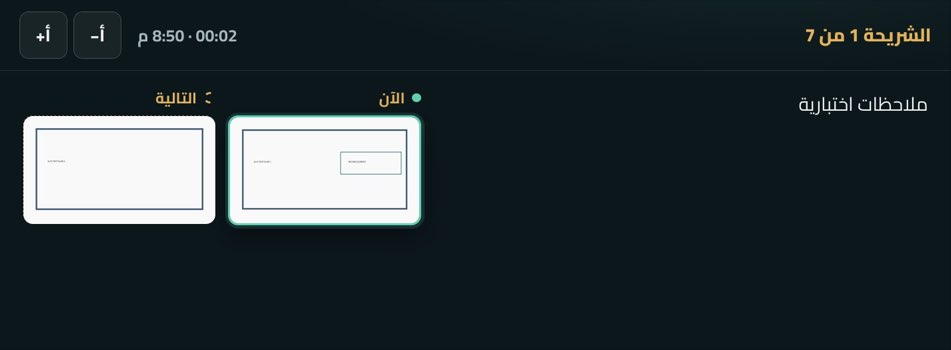
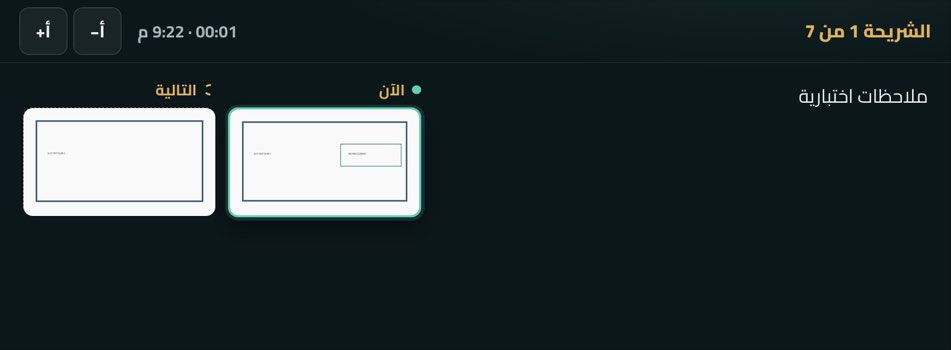
fix(duo): keep stacked notes layout in narrow short windows (Codex P2)
The two-column notes body under 480px height now needs >=641px width;
a 320x400 window keeps a 275px notes column instead of ~10px.

diff --git a/web/style.css b/web/style.css
@@ -1599,6 +1599,11 @@ html:is([data-role="audience"], [data-role="notes"]) .app > .error a { color: #5
 @media (max-height: 480px) {
   .nv-body { padding-block: .9rem; }
   .nv-text { max-height: calc(100dvh - 64px - 2rem); }
+  .nv-side img { margin-bottom: .3rem; }
+  .nv-bar { min-height: 56px; padding-block: .45rem; }
+}
+/* Two columns only when both fit; below 641px the stacked phone layout above stays. */
+@media (max-height: 480px) and (min-width: 641px) {
   .nv-body { grid-template-columns: minmax(0, 1fr) minmax(240px, 44%); }
   .nv-side { display: grid; grid-template-columns: 1fr 1fr; gap: 0 .8rem; align-items: start; align-content: start; }
   .nv-side .label { grid-row: 1; }

diff --git a/docs/IPHONE-DUO-ADAPTIVE-QUALITY.md b/docs/IPHONE-DUO-ADAPTIVE-QUALITY.md
@@ -33,7 +33,7 @@
 | 2 | الشريحة في لوحة المحاضر تُحسب من ارتفاع النافذة ناقص أرقام ثابتة (`230px` و`140px` و`290px`)، فتتجاوز إطارها حين يكبر الشريط أو تلتف المفاتيح (على 951×600 كانت الشريحة تنتهي عند y=402 بينما صف المفاتيح يبدأ عند y=390، فتُقص حافتها السفلية داخل الإطار) | تقدير بالأرقام بدل قياس المساحة الفعلية | `.stage-wrap` صار **size container** في النطاقين اللذين ارتفاعه فيهما محدد (المكتب والأفقي القصير)، والشريحة `min(100cqw, 100cqh × aspect)`: تملأ ما بقي لها بالضبط مهما تغيّر ما حولها. داخل `@supports (width: 1cqw)`، والمحركات الأقدم تبقى على القواعد السابقة. وهامش الإطار يتناسب مع الارتفاع بين 481 و760px |
 | 3 | المطوي عرضيًا 594×368: الشريط الجانبي (220px) + المفاتيح يتركان الشريحة صغيرة | النطاق الأفقي القصير يعامل 594px مثل 951px | تحت 720px عرضًا: الشاشة الأولى هي لوحة التحكم (الشريط، الشريحة، عمود المفاتيح)، والشريحة التالية والملاحظات تحتها بتمريرة واحدة. الشريحة صارت **437×246** بعد أن كانت 349×196 مع 4 مفاتيح مخفية |
 | 4 | شاشات الخطأ («تعذر فتح هذه المحاضرة…» و«لا توجد محاضرة مفتوحة بعد»): أعلى من النافذة بـ16px في كل الوضعيات، والنص ملتصق بالأعلى، وخلفية بيضاء على نافذة البروجكتر الداكنة (وميض أبيض أثناء «جارٍ التحميل…» أيضًا) | هامش `<p>` ينهار عبر `.app` (margin collapse)، ولا هوية لشاشات الانتظار/الخطأ حسب النافذة | `data-role` على `<html>`؛ نافذتا الطلبة والملاحظات خلفيتهما داكنة من أول رسم؛ شاشات التحميل/الخطأ بطاقة واحدة في منتصف `100dvh` مع حواف الأمان وأيقونة شاشة بلون النحاس، والهامش المنهار أُلغي. لا تمرير زائد في أي وضعية |
-| 5 | نافذة الملاحظات في الارتفاع القصير (951×350، 844×390): الصفحة أطول من النافذة، والمصغّرتان «الآن» و«التالية» فوق بعضهما | عمود جانبي عرضه 30% يكدّس الصورتين | تحت 480px ارتفاعًا: الصورتان جنبًا إلى جنب في عمود أعرض، وارتفاع النص `100dvh` ناقص الشريط. الصفحة صارت بارتفاع النافذة تمامًا |
+| 5 | نافذة الملاحظات في الارتفاع القصير (951×350، 844×390): الصفحة أطول من النافذة، والمصغّرتان «الآن» و«التالية» فوق بعضهما | عمود جانبي عرضه 30% يكدّس الصورتين | تحت 480px ارتفاعًا: ارتفاع النص `100dvh` ناقص الشريط، والصورتان جنبًا إلى جنب؛ والعمود الجانبي الأعرض فقط من 641px عرضًا فأكثر، وتحته يبقى التخطيط المكدّس (نافذة 320×400: عمود النص 275px، بعد ملاحظة Codex على PR #89). الصفحة بارتفاع النافذة تمامًا في 951×350 و844×390 و600×350 و594×368 |
 | 6 | صفحة الطالب في حالة الانتظار / الرابط الناقص على الشاشة المفتوحة 669×880: الرسالة في الأعلى ونصف الشاشة السفلي فارغ | الصفحة عمود يبدأ من الأعلى بلا توزيع | حين تكون الحالة وحدها: `body` عمود مرن بارتفاع `100dvh`، الرسالة في منتصف الشاشة الأولى ومفتاحا «فاهم / ضايع» في منطقة الإبهام أسفلها. في الارتفاع القصير لا يتغير شيء (المحتوى أطول من النافذة أصلًا) |
 | 7 | نافذة البروجكتر على جهاز فيه كاميرا أو زوايا دائرية: الشريحة تمتد تحتها | العرض يحسب `100vw/100dvh` كاملة | الخلفية تبقى ممتدة حافة لحافة، والشريحة تطرح `env(safe-area-inset-*)`. على البروجكتر الحواف صفر فلا يتغير شيء |
 | 8 | قائمة اختيار المحاضرة على اللمس بخط أقل من 16px: Safari يكبّر الصفحة عند التركيز | — | `16px` تحت `pointer: coarse` |
